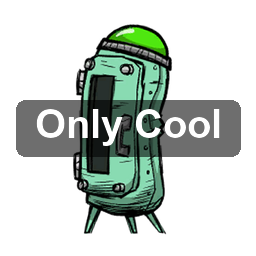
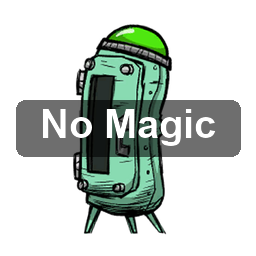
Rename the mod back to No Magic Fridges
Claude-Session: https://claude.ai/code/session_01DzbPP75PgUoUf91hER5wPJ

Changed region(s): [[0.125, 0.4062, 0.875, 0.5938]]

diff --git a/mods/no-magic-fridges/src/NoMagicFridges/Patches.cs b/mods/no-magic-fridges/src/NoMagicFridges/Patches.cs
@@ -2,7 +2,7 @@ using System.Reflection;
 using HarmonyLib;
 using UnityEngine;
 
-namespace FridgesOnlyCool
+namespace NoMagicFridges
 {
 	public static class Patches
 	{
@@ -47,7 +47,7 @@ namespace FridgesOnlyCool
 					complete.AddOrGet<FridgeThermostat>();
 					count++;
 				}
-				Debug.Log("[FridgesOnlyCool] Thermostat added to " + count + " fridge building(s)");
+				Debug.Log("[NoMagicFridges] Thermostat added to " + count + " fridge building(s)");
 			}
 		}
 	}

diff --git a/mods/no-magic-fridges/src/NoMagicFridges/Mod.cs b/mods/no-magic-fridges/src/NoMagicFridges/Mod.cs
@@ -1,0 +1,14 @@
+using HarmonyLib;
+using KMod;
+
+namespace NoMagicFridges
+{
+	public sealed class NoMagicFridgesMod : UserMod2
+	{
+		public override void OnLoad(Harmony harmony)
+		{
+			base.OnLoad(harmony);
+			Debug.Log("[NoMagicFridges] Loaded version " + typeof(NoMagicFridgesMod).Assembly.GetName().Version);
+		}
+	}
+}

diff --git a/mods/no-magic-fridges/src/NoMagicFridges/FridgeThermostat.cs b/mods/no-magic-fridges/src/NoMagicFridges/FridgeThermostat.cs
@@ -4,7 +4,7 @@ using System.Collections.Generic;
 using HarmonyLib;
 using UnityEngine;
 
-namespace FridgesOnlyCool
+namespace NoMagicFridges
 {
 	/// <summary>
 	/// Thermal model of a powered fridge. Vanilla attaches a simulated 1 °C reservoir to every

diff --git a/mods/no-magic-fridges/README.md b/mods/no-magic-fridges/README.md
@@ -1,4 +1,4 @@
-# Fridges Only Cool
+# No Magic Fridges
 
 An [Oxygen Not Included](https://www.klei.com/games/oxygen-not-included) mod that makes a powered fridge behave like an insulated box with a thermostat: it **only ever cools**, its contents share heat with each other, and food already colder than the 1 °C target is never warmed up to it.
 
@@ -24,11 +24,11 @@ Unpowered fridges, and items taken out of a fridge, behave exactly as in vanilla
 
 As a local mod:
 
-1. Download `FridgesOnlyCool-<version>.zip` from the [latest release](https://github.com/isochronous/fridges-only-cool/releases/latest).
-2. Extract it into a new folder named `FridgesOnlyCool` inside the game's local mods folder, so that `mod.yaml` ends up directly inside it (create `local` if it does not exist):
-   - Windows: `Documents\Klei\OxygenNotIncluded\mods\local\FridgesOnlyCool`
-   - Linux: `~/.config/unity3d/Klei/Oxygen Not Included/mods/local/FridgesOnlyCool`
-   - macOS: `~/Library/Application Support/unity.Klei.Oxygen Not Included/mods/local/FridgesOnlyCool`
+1. Download `NoMagicFridges-<version>.zip` from the [latest release](https://github.com/isochronous/no-magic-fridges/releases/latest).
+2. Extract it into a new folder named `NoMagicFridges` inside the game's local mods folder, so that `mod.yaml` ends up directly inside it (create `local` if it does not exist):
+   - Windows: `Documents\Klei\OxygenNotIncluded\mods\local\NoMagicFridges`
+   - Linux: `~/.config/unity3d/Klei/Oxygen Not Included/mods/local/NoMagicFridges`
+   - macOS: `~/Library/Application Support/unity.Klei.Oxygen Not Included/mods/local/NoMagicFridges`
 3. Start the game, enable the mod under **Mods** in the main menu, and let the game restart.
 
 ## Building
@@ -36,10 +36,10 @@ As a local mod:
 Requires the .NET SDK (8+). Shared build configuration lives in the [oni-mods-common](https://github.com/isochronous/oni-mods-common) submodule, so clone with `--recurse-submodules` (or run `git submodule update --init`). The game DLLs are referenced directly from the game install; override the path if yours differs:
 
 ```
-dotnet build src/FridgesOnlyCool -c Release -p:GameFolder="<path-to>\OxygenNotIncluded"
+dotnet build src/NoMagicFridges -c Release -p:GameFolder="<path-to>\OxygenNotIncluded"
 ```
 
-A successful build deploys the mod to `Documents\Klei\OxygenNotIncluded\mods\local\FridgesOnlyCool` (disable with `-p:ModDeployFolder=none`). Harmony only, no PLib.
+A successful build deploys the mod to `Documents\Klei\OxygenNotIncluded\mods\local\NoMagicFridges` (disable with `-p:ModDeployFolder=none`). Harmony only, no PLib.
 
 ## Implementation notes
 
